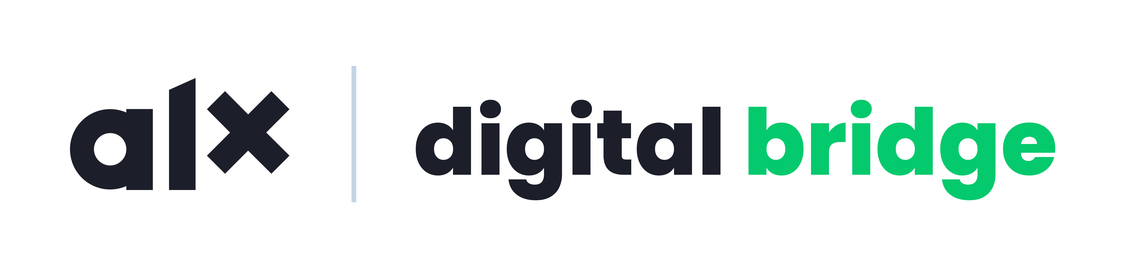
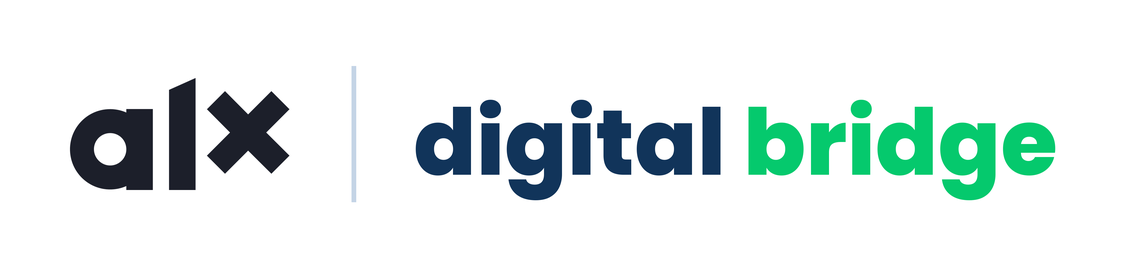
feat: digital in navy in the lockup; contact email now Heaven's

Changed region(s): [[0.3416, 0.3582, 0.6522, 0.7463]]

diff --git a/index.html b/index.html
@@ -430,7 +430,7 @@ window.DB_CONFIG = { endpoint: "https://script.google.com/macros/s/AKfycbzlIkqPr
 <footer class="site">
   <div class="wrap">
     <p class="partners">Digital Bridge is a programme of ALX, delivered with SNV and Mercy Corps under LIWAY. The hackathon is organised by ALX with the Addis Ababa Association of Persons with Physical Disabilities and Tomorrow is Better.</p>
-    <p>Questions: write to <span class="sel">tsultun@alxafrica.com</span>, or message the Digital Bridge WhatsApp number in your invitation.</p>
+    <p>Questions: write to <span class="sel">hyoun@alxafrica.com</span>, or message the Digital Bridge WhatsApp number in your invitation.</p>
     <p>ALX Tech Hub, Lideta, Addis Ababa. Applications close Sunday 8 November 2026, 23:59.</p>
   </div>
 </footer>

diff --git a/ask.js b/ask.js
@@ -44,7 +44,7 @@
     say('Sending your question.');
     fetch(endpoint, { method: 'POST', mode: 'no-cors', headers: { 'Content-Type': 'text/plain' }, body: JSON.stringify(payload) })
       .then(function () { say('Thank you. Your question was sent. Answers appear on this page within a day.'); form.reset(); })
-      .catch(function () { say('The question could not be sent. Check your connection and try again, or write to tsultun@alxafrica.com.'); })
+      .catch(function () { say('The question could not be sent. Check your connection and try again, or write to hyoun@alxafrica.com.'); })
       .then(function () { send.removeAttribute('aria-disabled'); });
   });
 })();

diff --git a/apply.html b/apply.html
@@ -79,7 +79,7 @@ window.DB_CONFIG = { endpoint: "https://script.google.com/macros/s/AKfycbzlIkqPr
 <footer class="site">
   <div class="wrap">
     <p data-i18n="privacy">What you write here is used only to run the hackathon, is seen only by the organising team, and is deleted after the event, under Ethiopia's Personal Data Protection Proclamation No. 1321/2024.</p>
-    <p><span data-i18n="questions">Questions:</span> <span class="sel">tsultun@alxafrica.com</span></p>
+    <p><span data-i18n="questions">Questions:</span> <span class="sel">hyoun@alxafrica.com</span></p>
   </div>
 </footer>
 

diff --git a/apply.js b/apply.js
@@ -5,7 +5,7 @@
 (function () {
   'use strict';
 
-  var CONTACT = 'tsultun@alxafrica.com';
+  var CONTACT = 'hyoun@alxafrica.com';
   var PITCH_MAX = 1200;
 
   /* ---------- strings ---------- */
